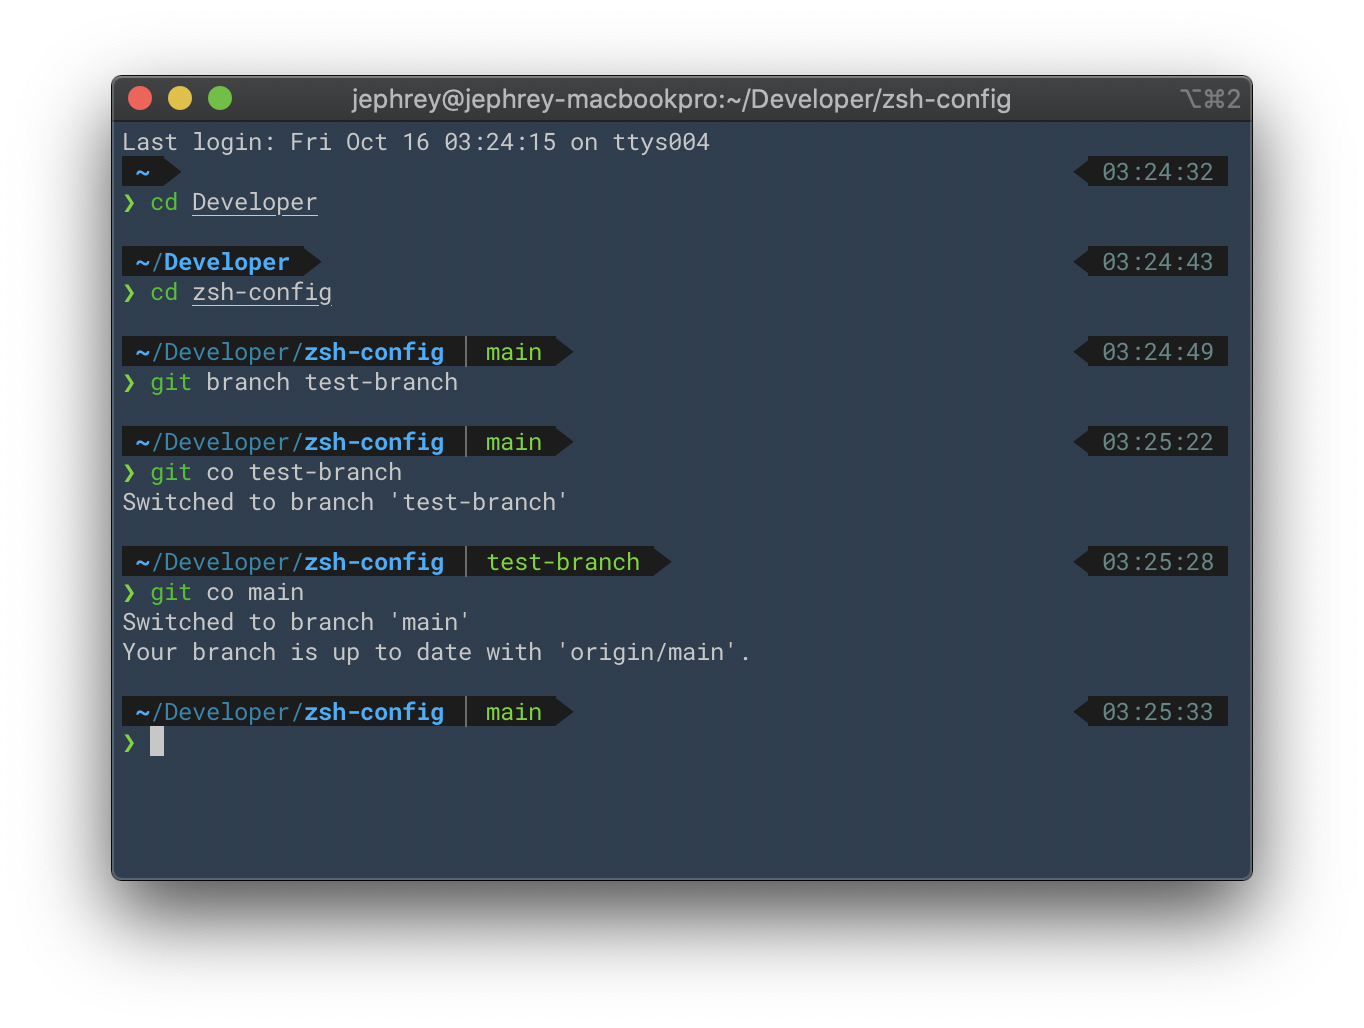
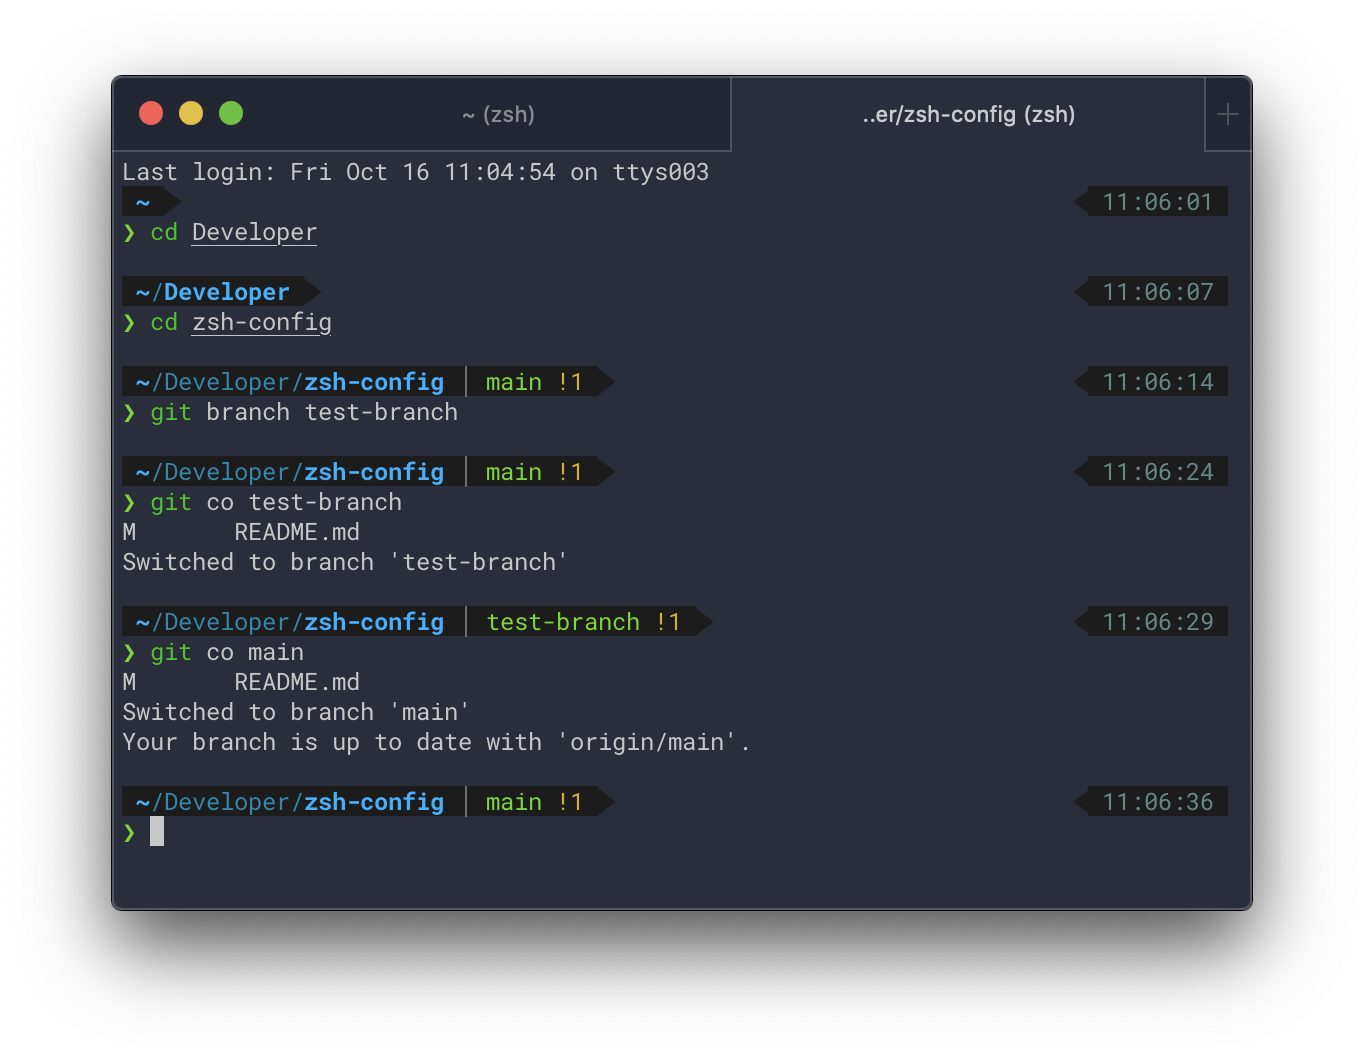
Update theme colors

diff --git a/README.md b/README.md
@@ -42,4 +42,4 @@ Automatic font installation only works in iTerm
 ```
 p10k configure
 ```
-The background color in the photo is `#2c3e50`
+The background color in the photo is `#292E3C`
